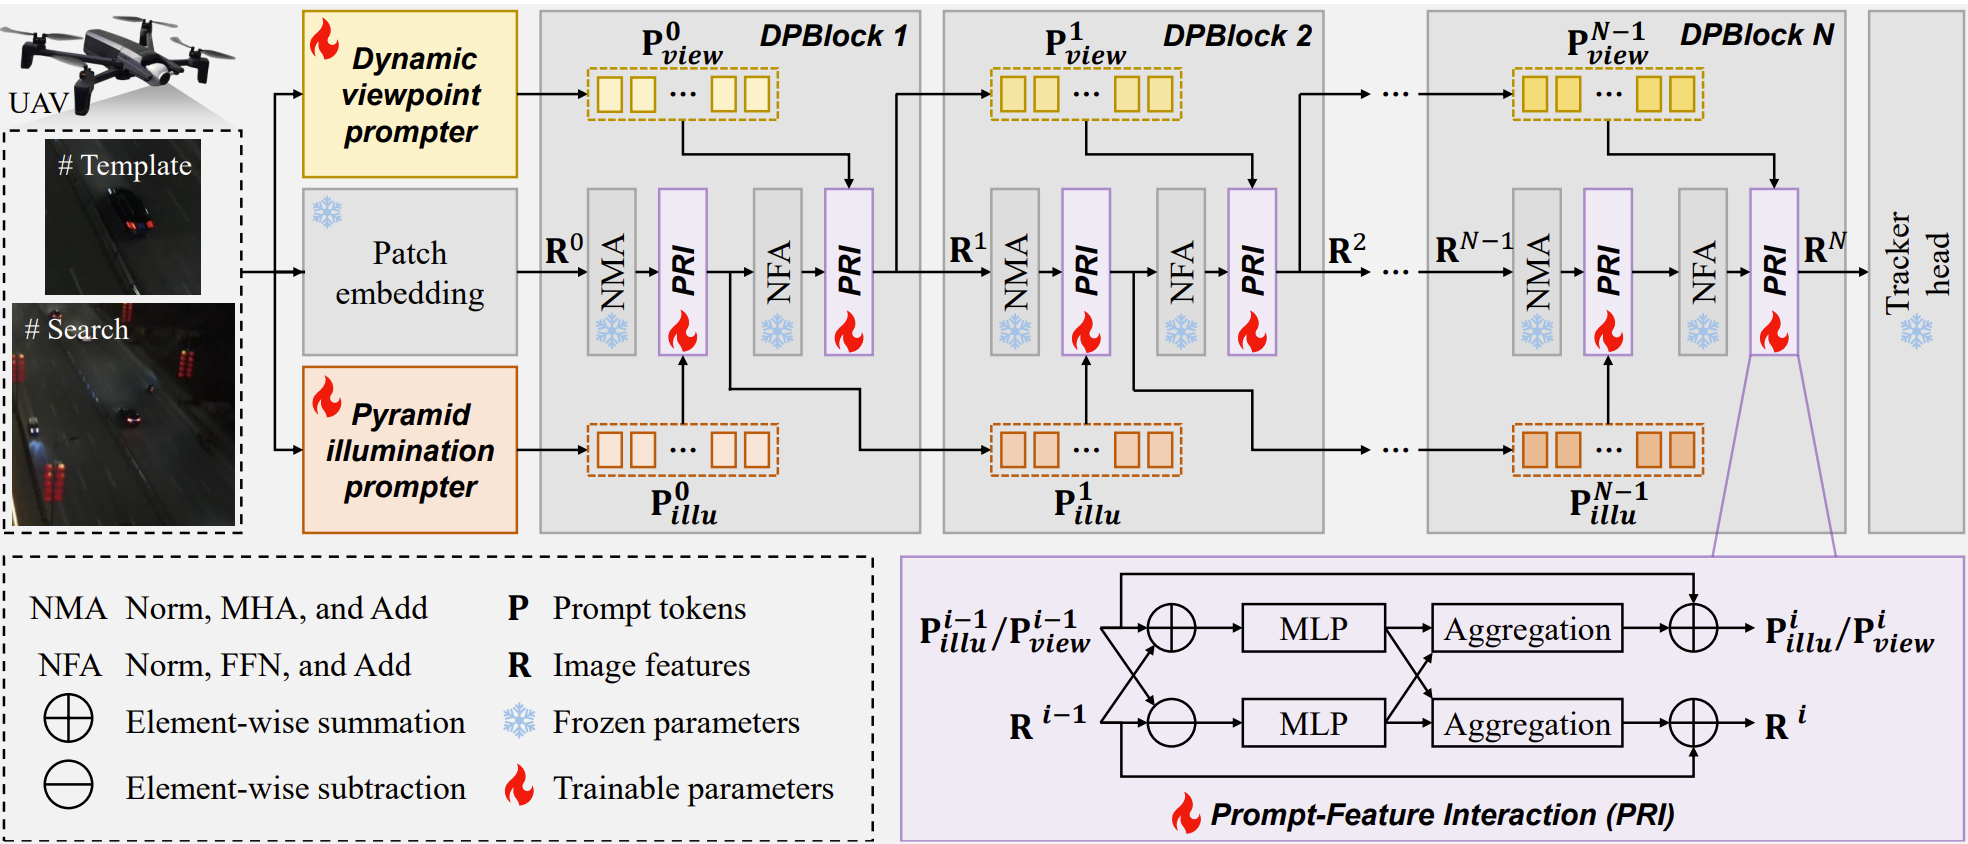
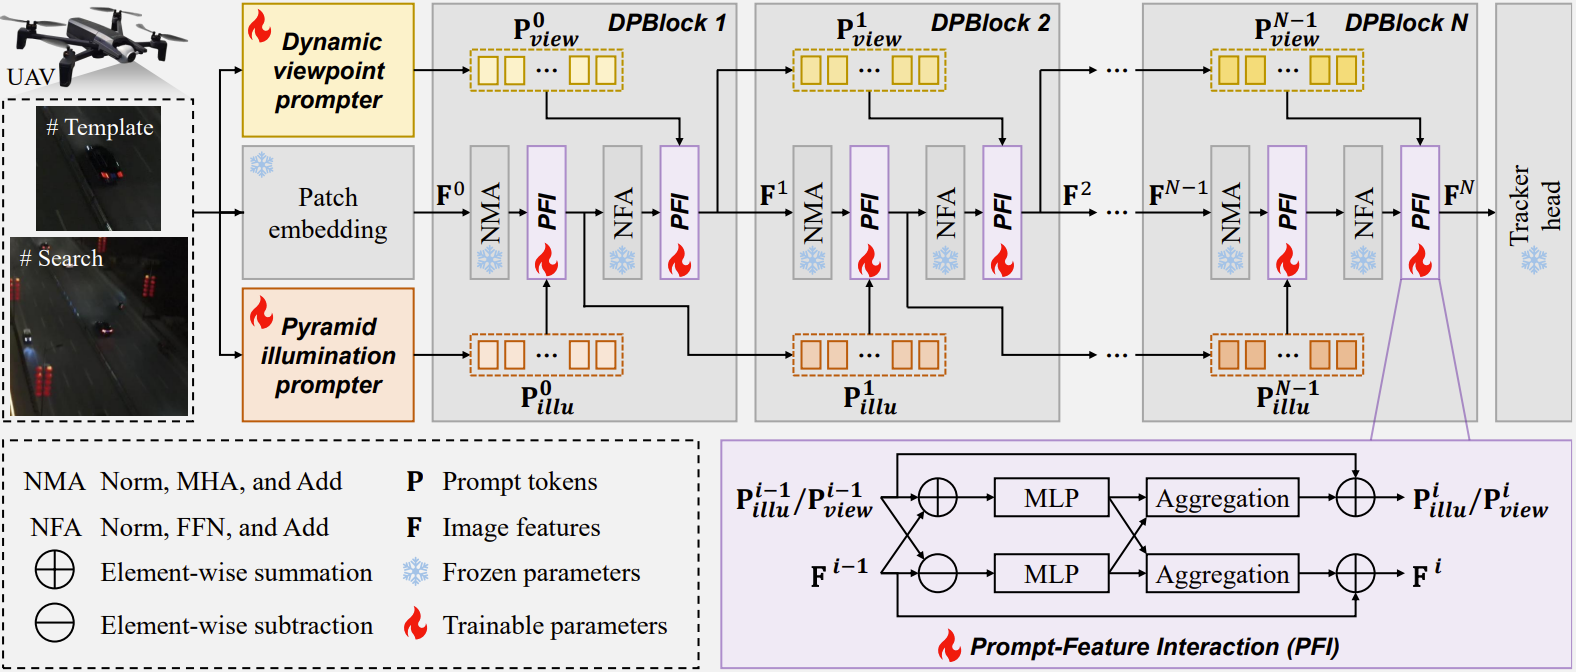
update

diff --git a/README.md b/README.md
@@ -11,12 +11,16 @@ A simple and effective tracking framework for nighttime UAV Tracking.
 </p>
 
 ## 📣 News
-- **[2026.02]** Model checkpoints and raw tracking results coming soon!
+- **[2026.03]** Model checkpoints and raw tracking results are now available!
 - **[2026.02]** Our paper has been accepted by ICRA 2026! 🎉
 
 ## 📁 Download
-- **Models Checkpoints**: [Baidu Netdisk](LINK_TO_MODEL) (Code: XXXX)
-- **Tracking Results**: [Baidu Netdisk](LINK_TO_RESULTS) (Code: XXXX)
+- **Model Checkpoints**:
+  - [Baidu Netdisk](https://pan.baidu.com/s/1Dr7cq8hMi6qK3u006OQ51Q) (Code: ac7z)
+  - [Google Drive](https://drive.google.com/drive/folders/1YkUyK5V7F63DMDP0W8FZPAXLCXWrT2Ex?usp=drive_link)
+- **Raw Tracking Results**:
+  - [Baidu Netdisk](https://pan.baidu.com/s/1CJLEbk9XfFOSstZllTrINg) (Code: haax)
+  - [Google Drive](https://drive.google.com/drive/folders/1wxpvaYglka2jMWmR2sG0qVJKtjuhnyjX?usp=drive_link)
 
 ## 🖥 Environment
 This repo is using Pytorch 2.1.2 with CUDA 11.8.
